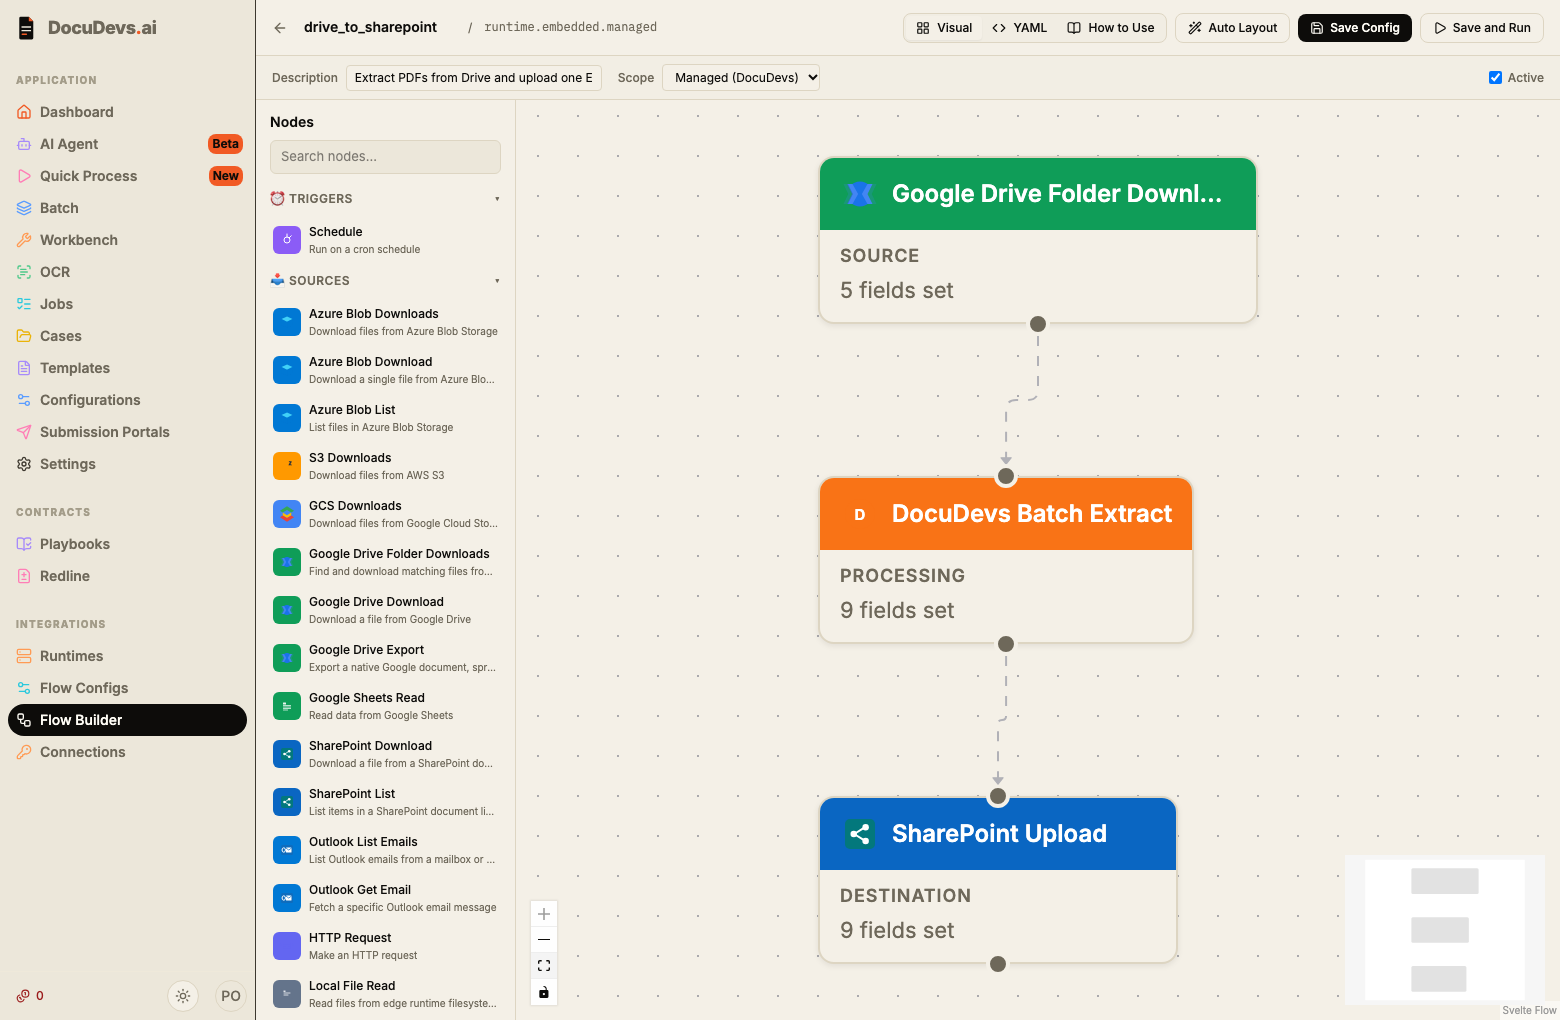
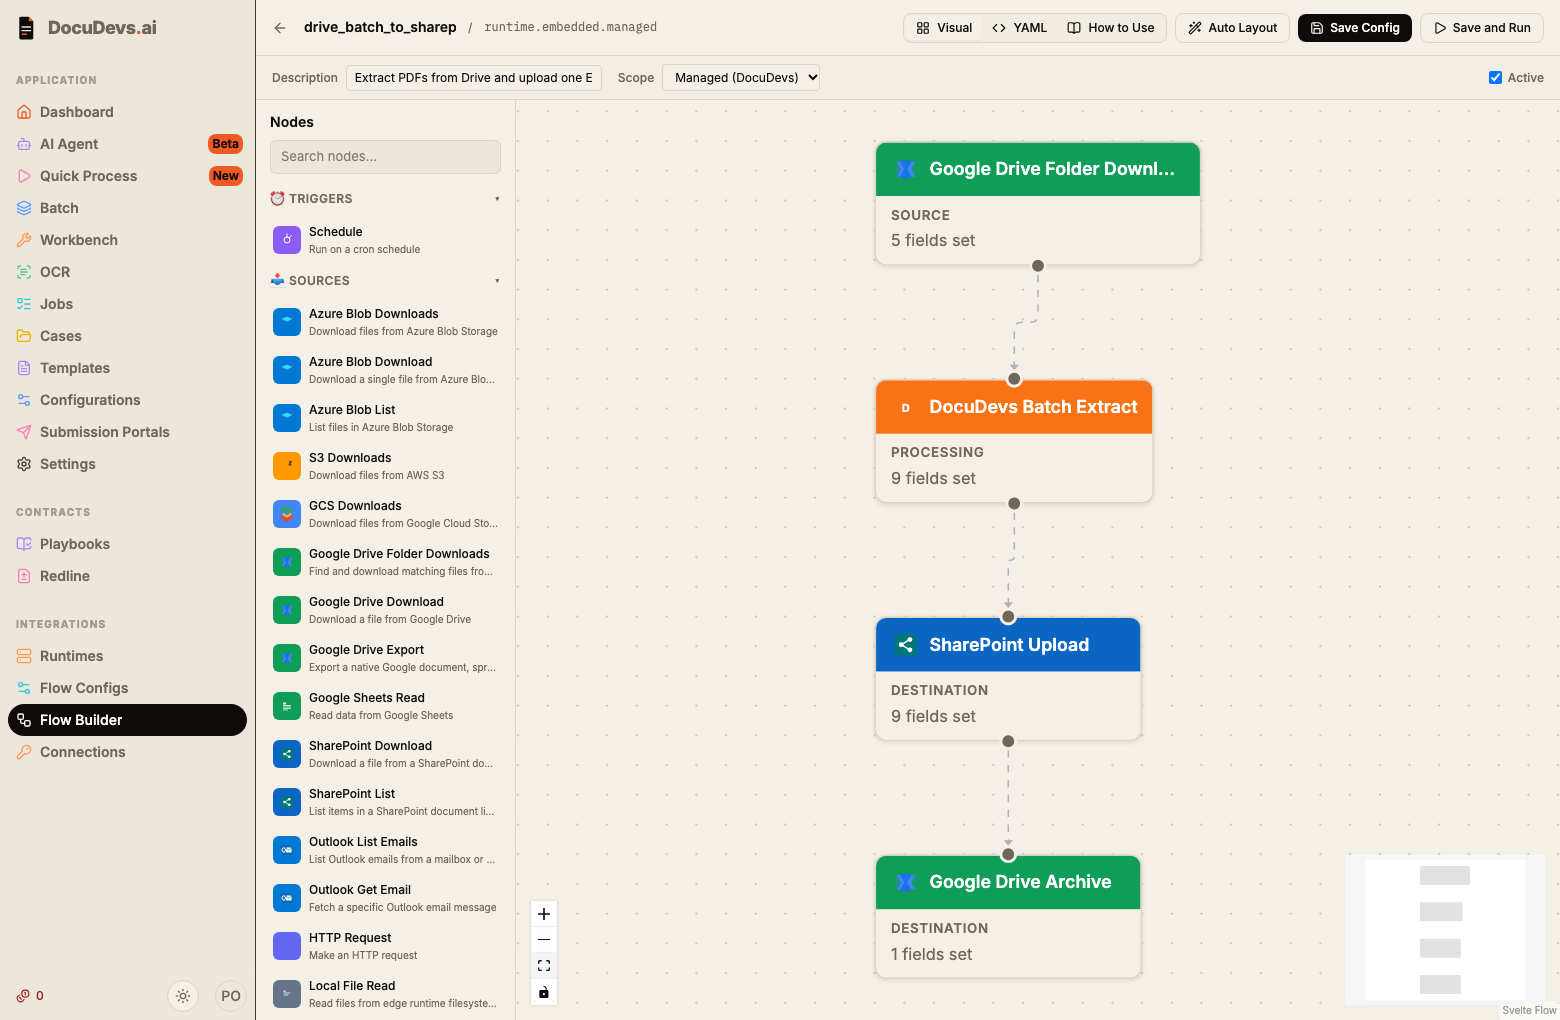
Document the automated Drive archive workflow

diff --git a/docs/guides/drive-to-sharepoint.md b/docs/guides/drive-to-sharepoint.md
@@ -1,20 +1,20 @@
 ---
 title: Send Google Drive invoices to SharePoint as Excel
-description: Build a managed workflow that downloads PDFs from Google Drive, extracts invoice numbers in one batch, and uploads an Excel workbook to SharePoint.
+description: Build a managed workflow that downloads PDFs from Google Drive, extracts invoice numbers in one batch, uploads one Excel workbook to SharePoint, and archives the processed PDFs.
 slug: /guides/drive-to-sharepoint
 ---
 
-Use Flow Builder to download invoice PDFs from a Google Drive folder, extract their invoice numbers in one DocuDevs batch, and upload the workbook to a SharePoint document library.
+Use Flow Builder to download invoice PDFs from a Google Drive folder, extract their invoice numbers in one DocuDevs batch, upload the workbook to SharePoint, and move the processed PDFs to a Drive archive folder.
 
-![Flow Builder canvas connecting Google Drive Folder Downloads to DocuDevs Batch Extract and SharePoint Upload](./assets/drive-to-sharepoint/visual-workflow.png)
+![Flow Builder canvas connecting Google Drive Folder Downloads, Batch Extract, SharePoint Upload, and Google Drive Archive](./assets/drive-to-sharepoint/visual-workflow.png)
 
 ## Set up the shared connections
 
-Start with a Drive folder containing two invoice PDFs with different invoice numbers and a SharePoint document library where you can check the result. Use a DocuDevs deployment with managed runs enabled.
+Create sibling folders named **Inbox** and **Processed** in the same Google shared drive. Put two test PDFs with different invoice numbers into **Inbox**. Choose a SharePoint document library where you can check the result. Use a DocuDevs deployment with managed runs and the **Google Drive Archive** node available.
 
 An organization admin creates the following connections under **Integrations → Connections → New connection**. See the provider setup instructions for [Google Workspace](./integration-connections.md#google-workspace) and [SharePoint](./integration-connections.md#sharepoint).
 
-1. **Google Workspace**. Enter the service-account JSON and share the source folder with the service account. Save the connection as `drive-invoices`. Copy the folder ID from the part of its Drive URL after `/folders/`.
+1. **Google Workspace**. Enter the service-account JSON and save the connection as `drive-invoices`. Grant the service account **Content manager** access on the shared drive or the common parent of the two folders. Copy each folder ID from the part of its URL after `/folders/`. [Google Drive roles and permissions](https://developers.google.com/workspace/drive/api/guides/ref-roles)
 2. **SharePoint**. Enter the Entra tenant ID, client ID, and client secret for an app with write access to the site. Save the site ID and library drive ID on the connection. Name it `sharepoint-invoices`. If the workbook goes in an existing subfolder, copy its Graph folder item ID.
 
 ## Build the workflow
@@ -23,7 +23,7 @@ Open **Integrations → Flow Builder**, name the flow `drive_to_sharepoint`, and
 
 ### Download the PDFs
 
-Drag **Google Drive Folder Downloads** onto the canvas. Select `drive-invoices` as the **Connection** and enter the **Folder ID**. Keep **File MIME Type** set to `application/pdf` and **Concurrent Downloads** set to `4`.
+Drag **Google Drive Folder Downloads** onto the canvas. Select `drive-invoices` as the **Connection** and enter the **Inbox** folder ID. Keep **File MIME Type** set to `application/pdf` and **Concurrent Downloads** set to `4`.
 
 The node lists the folder on every run and downloads matching files directly in that folder. New PDFs are picked up on the next run. An empty source folder skips extraction and upload.
 
@@ -51,31 +51,30 @@ Batch Extract shows **Automatic authentication** in managed scope. DocuDevs supp
 
 ### Upload the workbook
 
-Add **SharePoint Upload** and connect the output of **DocuDevs Batch Extract** to its input. Select `sharepoint-invoices` as the **Connection** and set **Destination Filename** to `drive-batch.xlsx`. Leave **Folder Item ID** blank to upload to the library root, or enter the subfolder item ID.
+Add **SharePoint Upload** and connect the output of **DocuDevs Batch Extract** to its input. Select `sharepoint-invoices` as the **Connection** and set **Destination Filename** to `drive-batch-{{ execution.id }}.xlsx` to keep one workbook per run. Leave **Folder Item ID** blank to upload to the library root, or enter the subfolder item ID.
 
 ![SharePoint Upload settings with the shared connection, destination filename, and folder item ID](./assets/drive-to-sharepoint/sharepoint-upload.png)
 
-## Run the flow and check the workbook
+### Archive processed PDFs in Google Drive
+
+Add **Google Drive Archive** and connect the output of **SharePoint Upload** to its input. Enter the **Processed Folder ID**. The archive step uses the Google Workspace connection from **Google Drive Folder Downloads**.
+
+![Google Drive Archive with the Processed Folder ID configured](./assets/drive-to-sharepoint/drive-archive.png)
+
+After SharePoint confirms the upload, the archive step moves the original PDFs with successful results from **Inbox** to **Processed**. It updates the folder in Google Drive. Failed documents stay in **Inbox** for the next run. If the upload fails, every source file stays in **Inbox**. [Move files between folders in Google Drive](https://developers.google.com/workspace/drive/api/guides/folder#move_files_between_folders)
+
+## Run the flow and check the result
 
 1. Click **Save and Run** and wait for the execution to show **COMPLETED**.
-2. Open `drive-batch.xlsx` in the destination SharePoint library or folder. Check that the `invoice_number` column contains the two expected invoice numbers.
-3. Add a third invoice PDF to the Drive folder and run the flow again. Check that the new workbook includes its invoice number.
+2. Open the new workbook in SharePoint and check that the `invoice_number` column contains both expected invoice numbers. Confirm the two original PDFs are in **Processed**.
+3. Add a third invoice PDF to **Inbox** and run the flow again. Check that the new workbook contains only the third invoice and that its PDF is now in **Processed**.
 
-![The completed managed execution in Flow Builder](./assets/drive-to-sharepoint/managed-run.png)
+![A completed managed execution in Flow Builder](./assets/drive-to-sharepoint/managed-run.png)
 
-If a run fails or produces no workbook, check the execution status, the source folder ID and service-account access, and the SharePoint app's write permission on the destination site.
-
-## Archive processed PDFs in Google Drive
-
-1. Create sibling folders named **Inbox** and **Processed** in the same Drive or shared drive. Put new PDFs in **Inbox**. Set **Folder ID** on **Google Drive Folder Downloads** to the ID of **Inbox** and give the Google Workspace service account read access to it. The person archiving files needs permission to move them between the folders.
-2. Set **Destination Filename** on **SharePoint Upload** to `drive-batch-{{ execution.id }}.xlsx` to keep a separate workbook for each run.
-3. Run the workflow with two test invoices that have distinct invoice numbers. After it uploads the workbook, compare the `invoice_number` column with the PDFs in **Inbox**. In Google Drive, select the PDFs you can match to the workbook and choose **Move** to send them to **Processed**. Leave failed or unmatched PDFs in **Inbox** for retry.
-4. Add a new PDF and run the workflow again. Check that the new workbook includes the new invoice and any successful retries. The source reads **Inbox**, so archived PDFs stay out of later runs.
-
-The move is manual. The Batch Extract node's Excel output does not expose per-file status mapped to Drive file IDs, which an automated move would need.
+If archiving fails after the workbook uploads, check the execution logs and the service account's move permissions. The archive step retries during the run. If the retries run out, the next run can process and publish any PDFs still in **Inbox** again.
 
 ## Run on a schedule
 
 If your deployment has managed scheduling enabled, add a **Schedule** node to the flow. Enter a five-field **Cron Expression** and an optional **Time Zone**. For example, `0 8 * * MON-FRI` with `Europe/Zurich` runs at 08:00 on weekdays in Zurich. Set the **Schedule timeout**, keep **Active** checked, and click **Save Config**. The builder shows the next scheduled run. Clear **Active** and save again to pause the schedule.
 
-Review each workbook and move its confirmed PDFs before the next scheduled run. Any matching PDF still in **Inbox** is picked up again. An empty inbox skips extraction and upload, though the scheduled run still uses runner compute.
+Once the schedule is active, put new PDFs in **Inbox**. Each run scans that folder and archives the successful PDFs after it publishes the workbook. An empty inbox skips extraction, upload, and archiving, though the scheduled run still uses runner compute.
